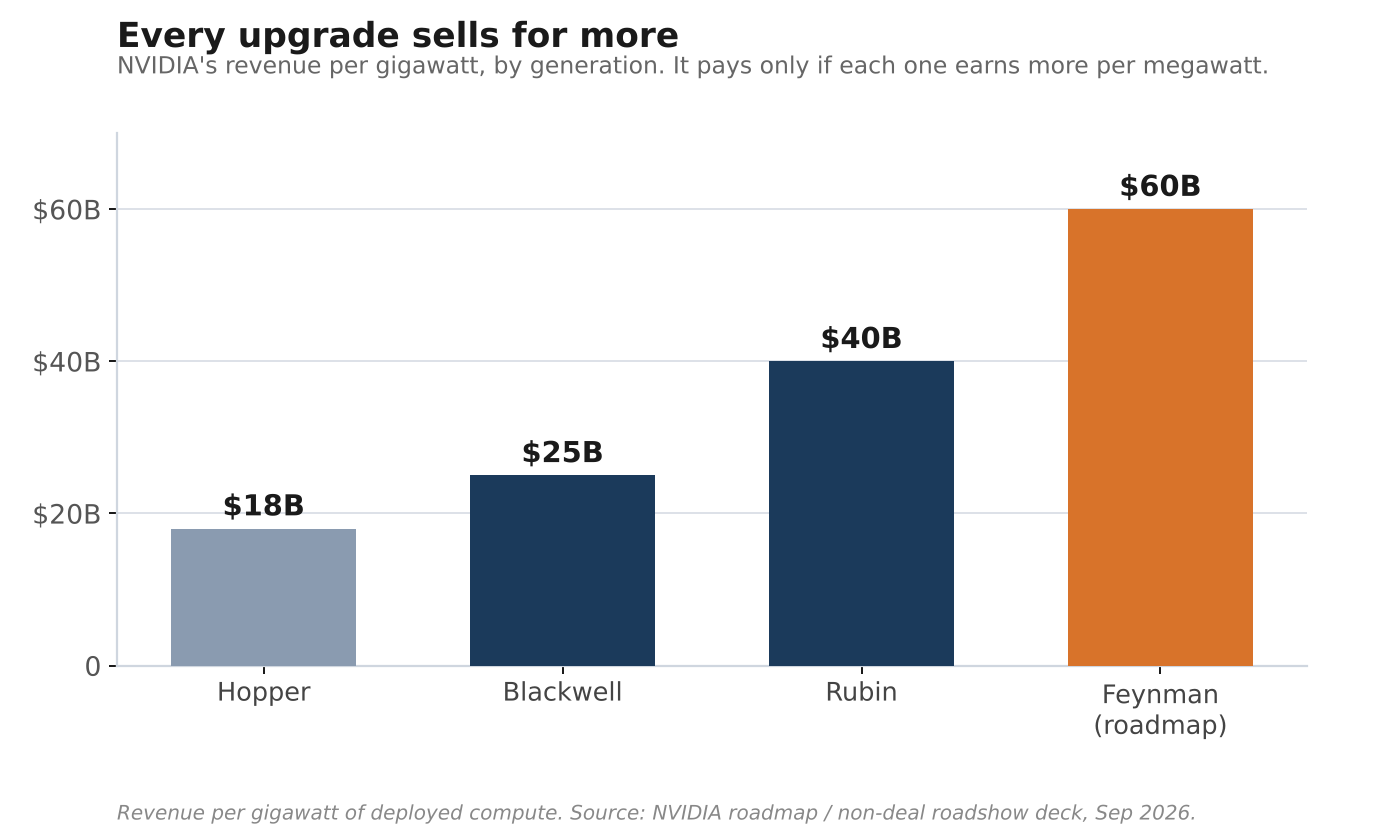
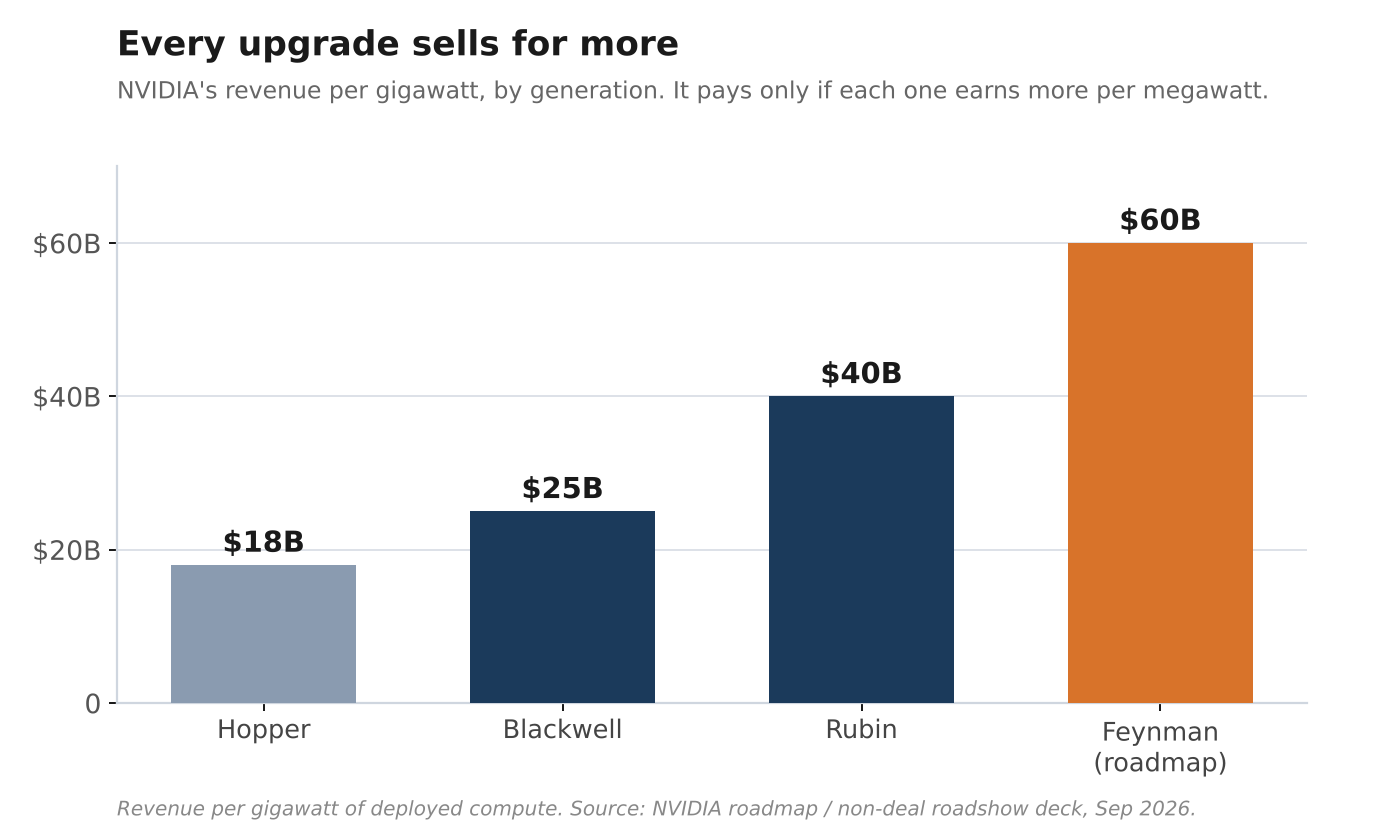
Chart polish: DDTL rate ~10%, 16% callout on the bar, fix title/subtitle spacing
- Debt stack: correct secured term loan blended rate ~9% -> ~10% (9.62%, Magnetar excluded)
- Debt stack: move '16% is only this slice' callout into the orange bar as white text
- All three charts: widen title-to-subtitle gap
- Revenue-per-GW: middle-ground bottom margin so Feynman (roadmap) clears source line

Claude-Session: https://claude.ai/code/session_01HDhTLet2AMqpzZaHVpR8SL

diff --git a/charts/make_charts.py b/charts/make_charts.py
@@ -73,8 +73,8 @@ ax.grid(axis="y", color=GRID, lw=0.8, zorder=0)
 ax.set_xlim(-0.3, len(dates) + 2.6)
 
 fig.suptitle("The order of damage: NVIDIA fell last, and least",
-             fontsize=15.5, fontweight="bold", color=INK, x=0.085, ha="left", y=0.975)
-fig.text(0.085, 0.905,
+             fontsize=15.5, fontweight="bold", color=INK, x=0.085, ha="left", y=0.965)
+fig.text(0.085, 0.875,
          "Share prices since the October 8 selloff. The lessors fell about three times as far as the chipmaker.",
          fontsize=10.8, color="#666", va="bottom")
 
@@ -82,7 +82,7 @@ fig.text(0.085, 0.015,
          "Daily closing prices, October 1–16, 2026. Source: Yahoo Finance.",
          fontsize=9, color="#888", style="italic")
 
-fig.subplots_adjust(left=0.085, right=0.9, top=0.84, bottom=0.11)
+fig.subplots_adjust(left=0.085, right=0.9, top=0.80, bottom=0.11)
 out = "charts/order-of-damage.png"
 fig.savefig(out, facecolor="white")
 print("wrote", out)
@@ -114,14 +114,14 @@ for s in ["top", "right"]:
 ax.grid(axis="y", color=GRID, lw=0.8, zorder=0)
 
 fig.suptitle("Every upgrade sells for more",
-             fontsize=15.5, fontweight="bold", color=INK, x=0.085, ha="left", y=0.975)
-fig.text(0.085, 0.905,
+             fontsize=15.5, fontweight="bold", color=INK, x=0.085, ha="left", y=0.965)
+fig.text(0.085, 0.875,
          "NVIDIA's revenue per gigawatt, by generation. It pays only if each one earns more per megawatt.",
          fontsize=10.6, color="#666", va="bottom")
-fig.text(0.085, 0.015,
+fig.text(0.085, 0.02,
          "Revenue per gigawatt of deployed compute. Source: NVIDIA roadmap / non-deal roadshow deck, Sep 2026.",
          fontsize=9, color="#888", style="italic")
-fig.subplots_adjust(left=0.085, right=0.95, top=0.84, bottom=0.2)
+fig.subplots_adjust(left=0.085, right=0.95, top=0.80, bottom=0.155)
 out = "charts/revenue-per-gw.png"
 fig.savefig(out, facecolor="white")
 print("wrote", out)
@@ -133,7 +133,7 @@ print("wrote", out)
 # ======================================================================
 LIGHT = "#b9c4d2"
 rows = [
-    ("Secured term loans (DDTLs)", 14, "~9%", NAVY),
+    ("Secured term loans (DDTLs)", 14, "~10%", NAVY),
     ("Unsecured senior notes",     10, "10% coupon, ~16% now", ORANGE),
     ("Convertibles",                7, "2%", LIGHT),
     ("Equipment financing",         5, "~11%", SLATE),
@@ -153,10 +153,9 @@ for yi, amt, rate in zip(y, amounts, rates):
     ax.annotate(f"at {rate}", (amt, yi), xytext=(8, -14), textcoords="offset points",
                 va="center", ha="left", color="#777", fontsize=9.2)
 
-# call out the orange slice
-ax.annotate("the viral 16% is only this slice",
-            xy=(9.9, y[1] + 0.33), xytext=(9.7, y[1] + 0.52),
-            fontsize=9.5, color=ORANGE, fontweight="bold", va="center", ha="right")
+# label the 16% directly on the bar it belongs to, in white
+ax.annotate("the viral 16% is only this slice", xy=(0.35, y[1]),
+            va="center", ha="left", color="white", fontweight="bold", fontsize=10.5)
 
 ax.set_yticks(y)
 ax.set_yticklabels(labels, fontsize=11, color="#333")
@@ -169,14 +168,14 @@ ax.tick_params(axis="y", length=0)
 ax.grid(axis="x", color=GRID, lw=0.8, zorder=0)
 
 fig.suptitle("The viral 16% is one slice, not the company",
-             fontsize=15.5, fontweight="bold", color=INK, x=0.03, ha="left", y=0.975)
-fig.text(0.03, 0.905,
+             fontsize=15.5, fontweight="bold", color=INK, x=0.03, ha="left", y=0.965)
+fig.text(0.03, 0.875,
          "CoreWeave's ~$35B of debt, its largest facilities by type and cost. The blended effective rate is about 8%, not 16%.",
          fontsize=10.6, color="#666", va="bottom")
 fig.text(0.03, 0.015,
          "Principal outstanding as of June 30, 2026. Source: CoreWeave Q2 FY26 10-Q, Note 10.",
          fontsize=9, color="#888", style="italic")
-fig.subplots_adjust(left=0.28, right=0.96, top=0.84, bottom=0.12)
+fig.subplots_adjust(left=0.28, right=0.96, top=0.80, bottom=0.12)
 out = "charts/coreweave-debt-stack.png"
 fig.savefig(out, facecolor="white")
 print("wrote", out)
